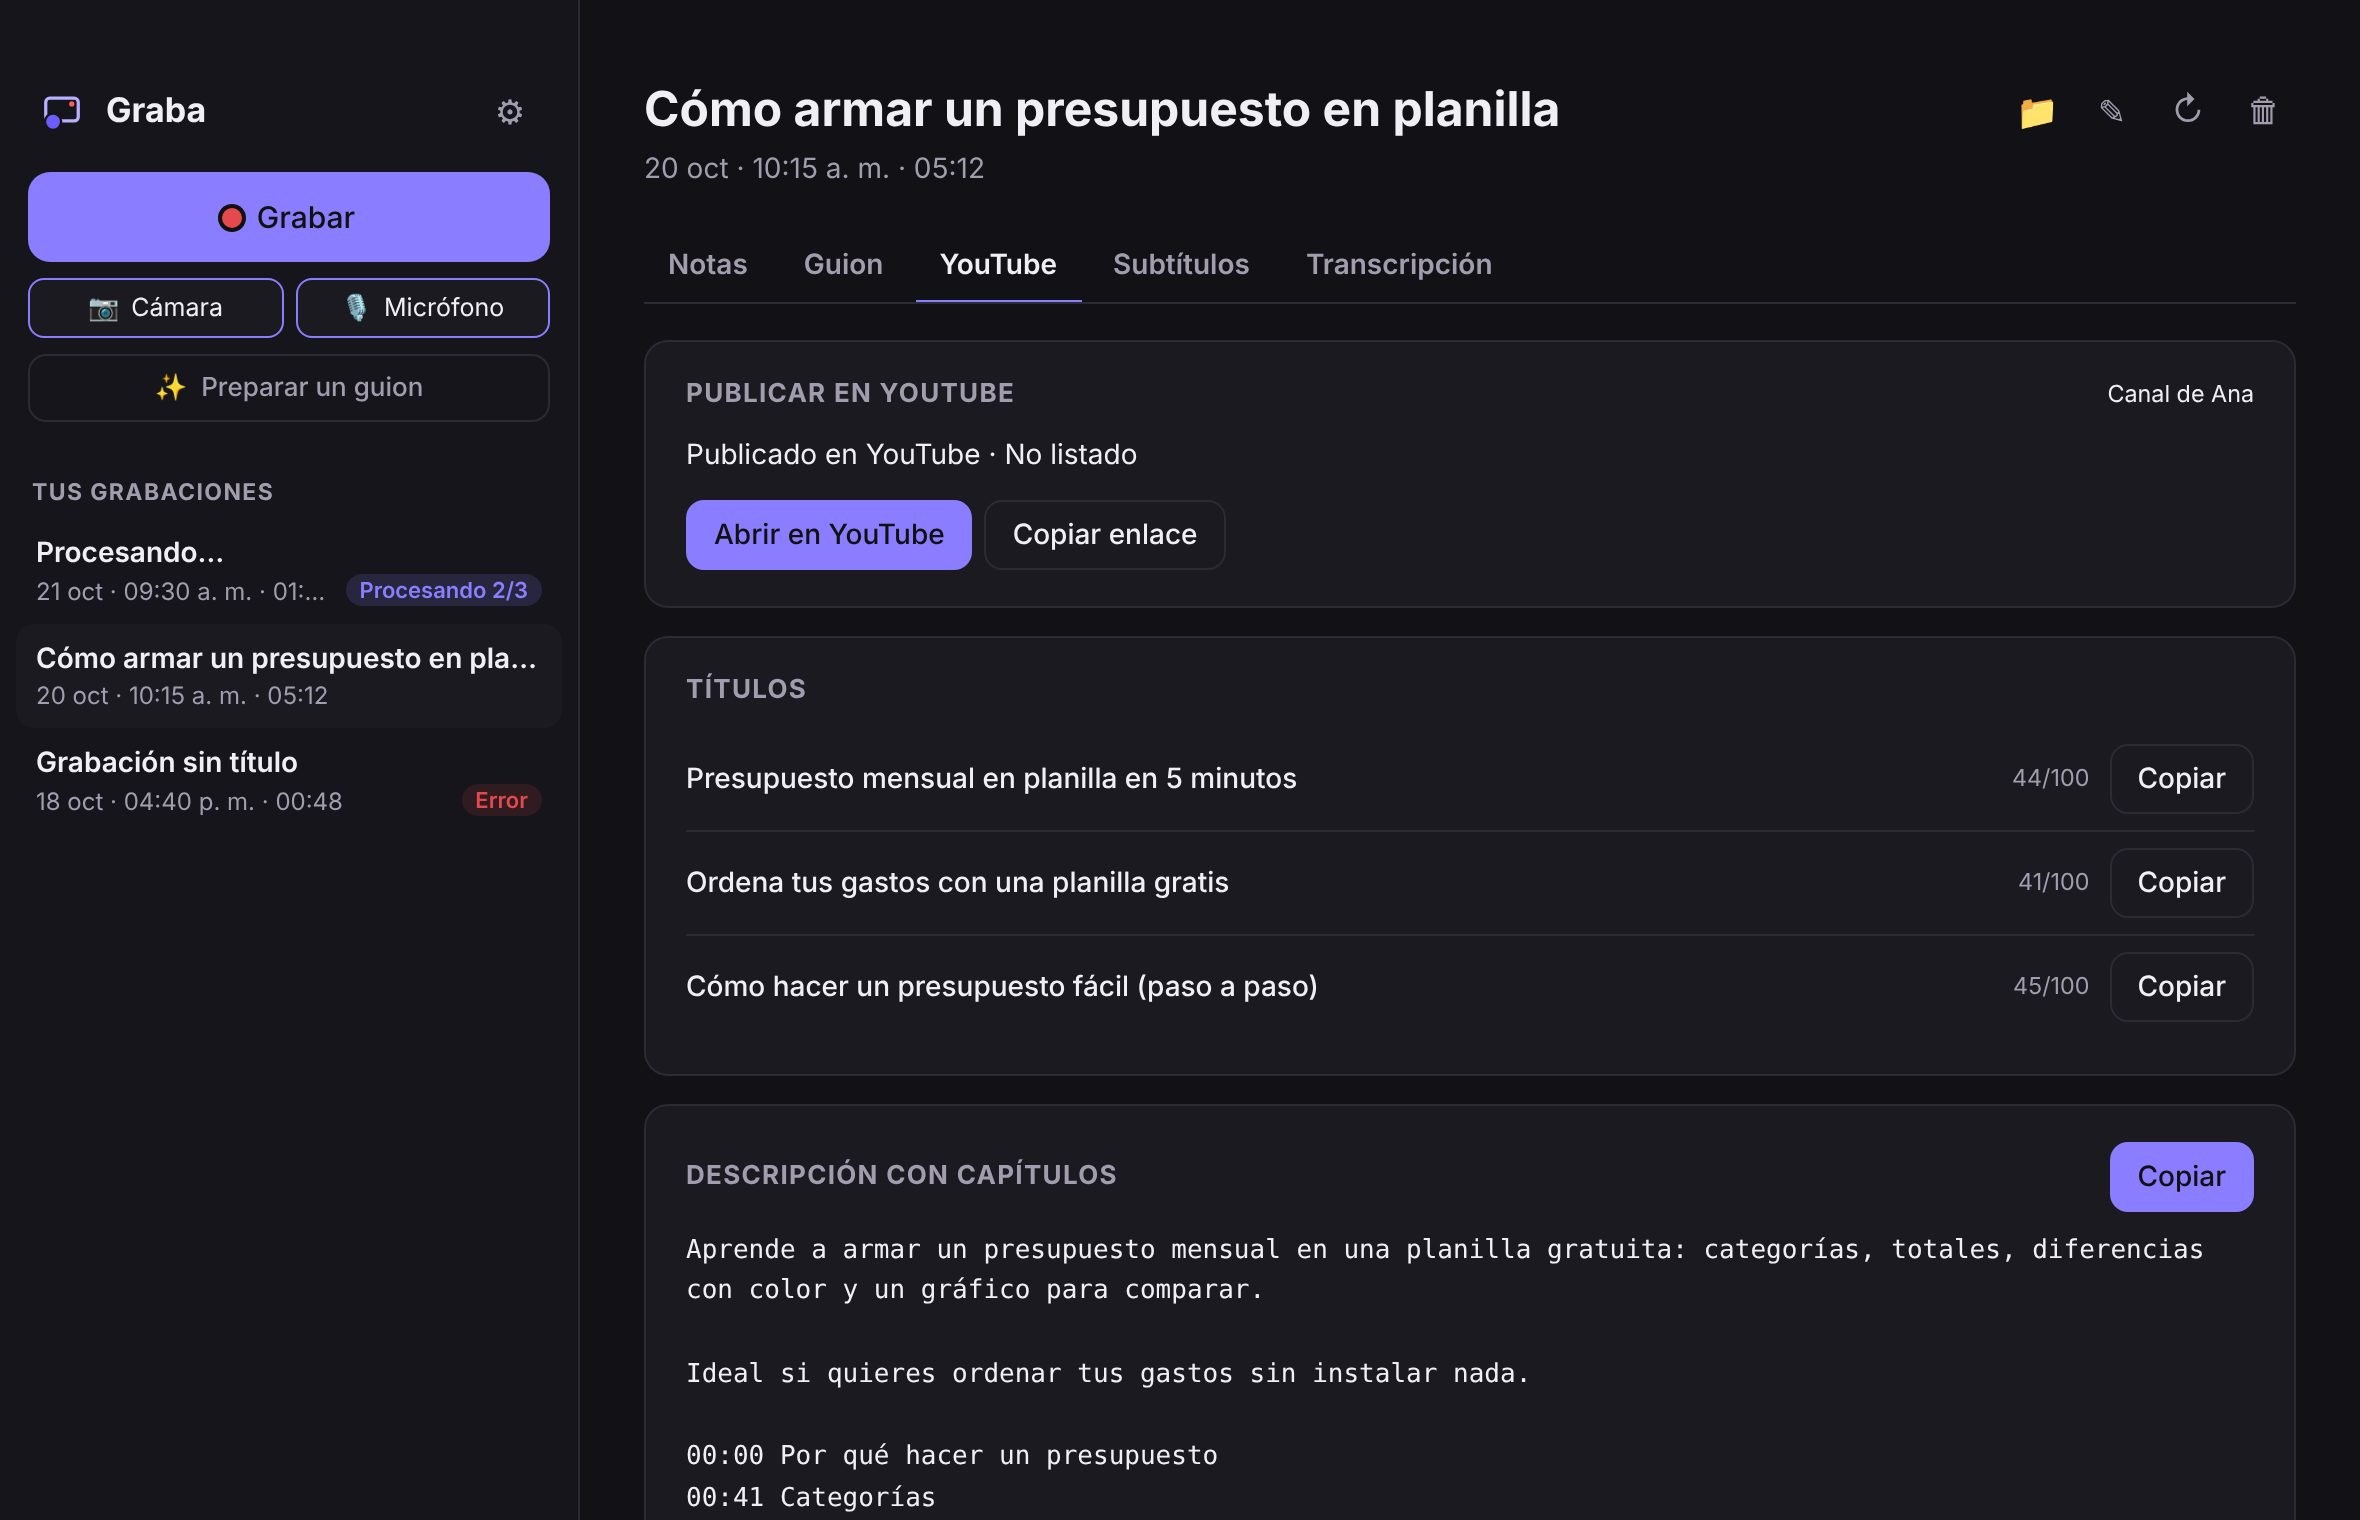
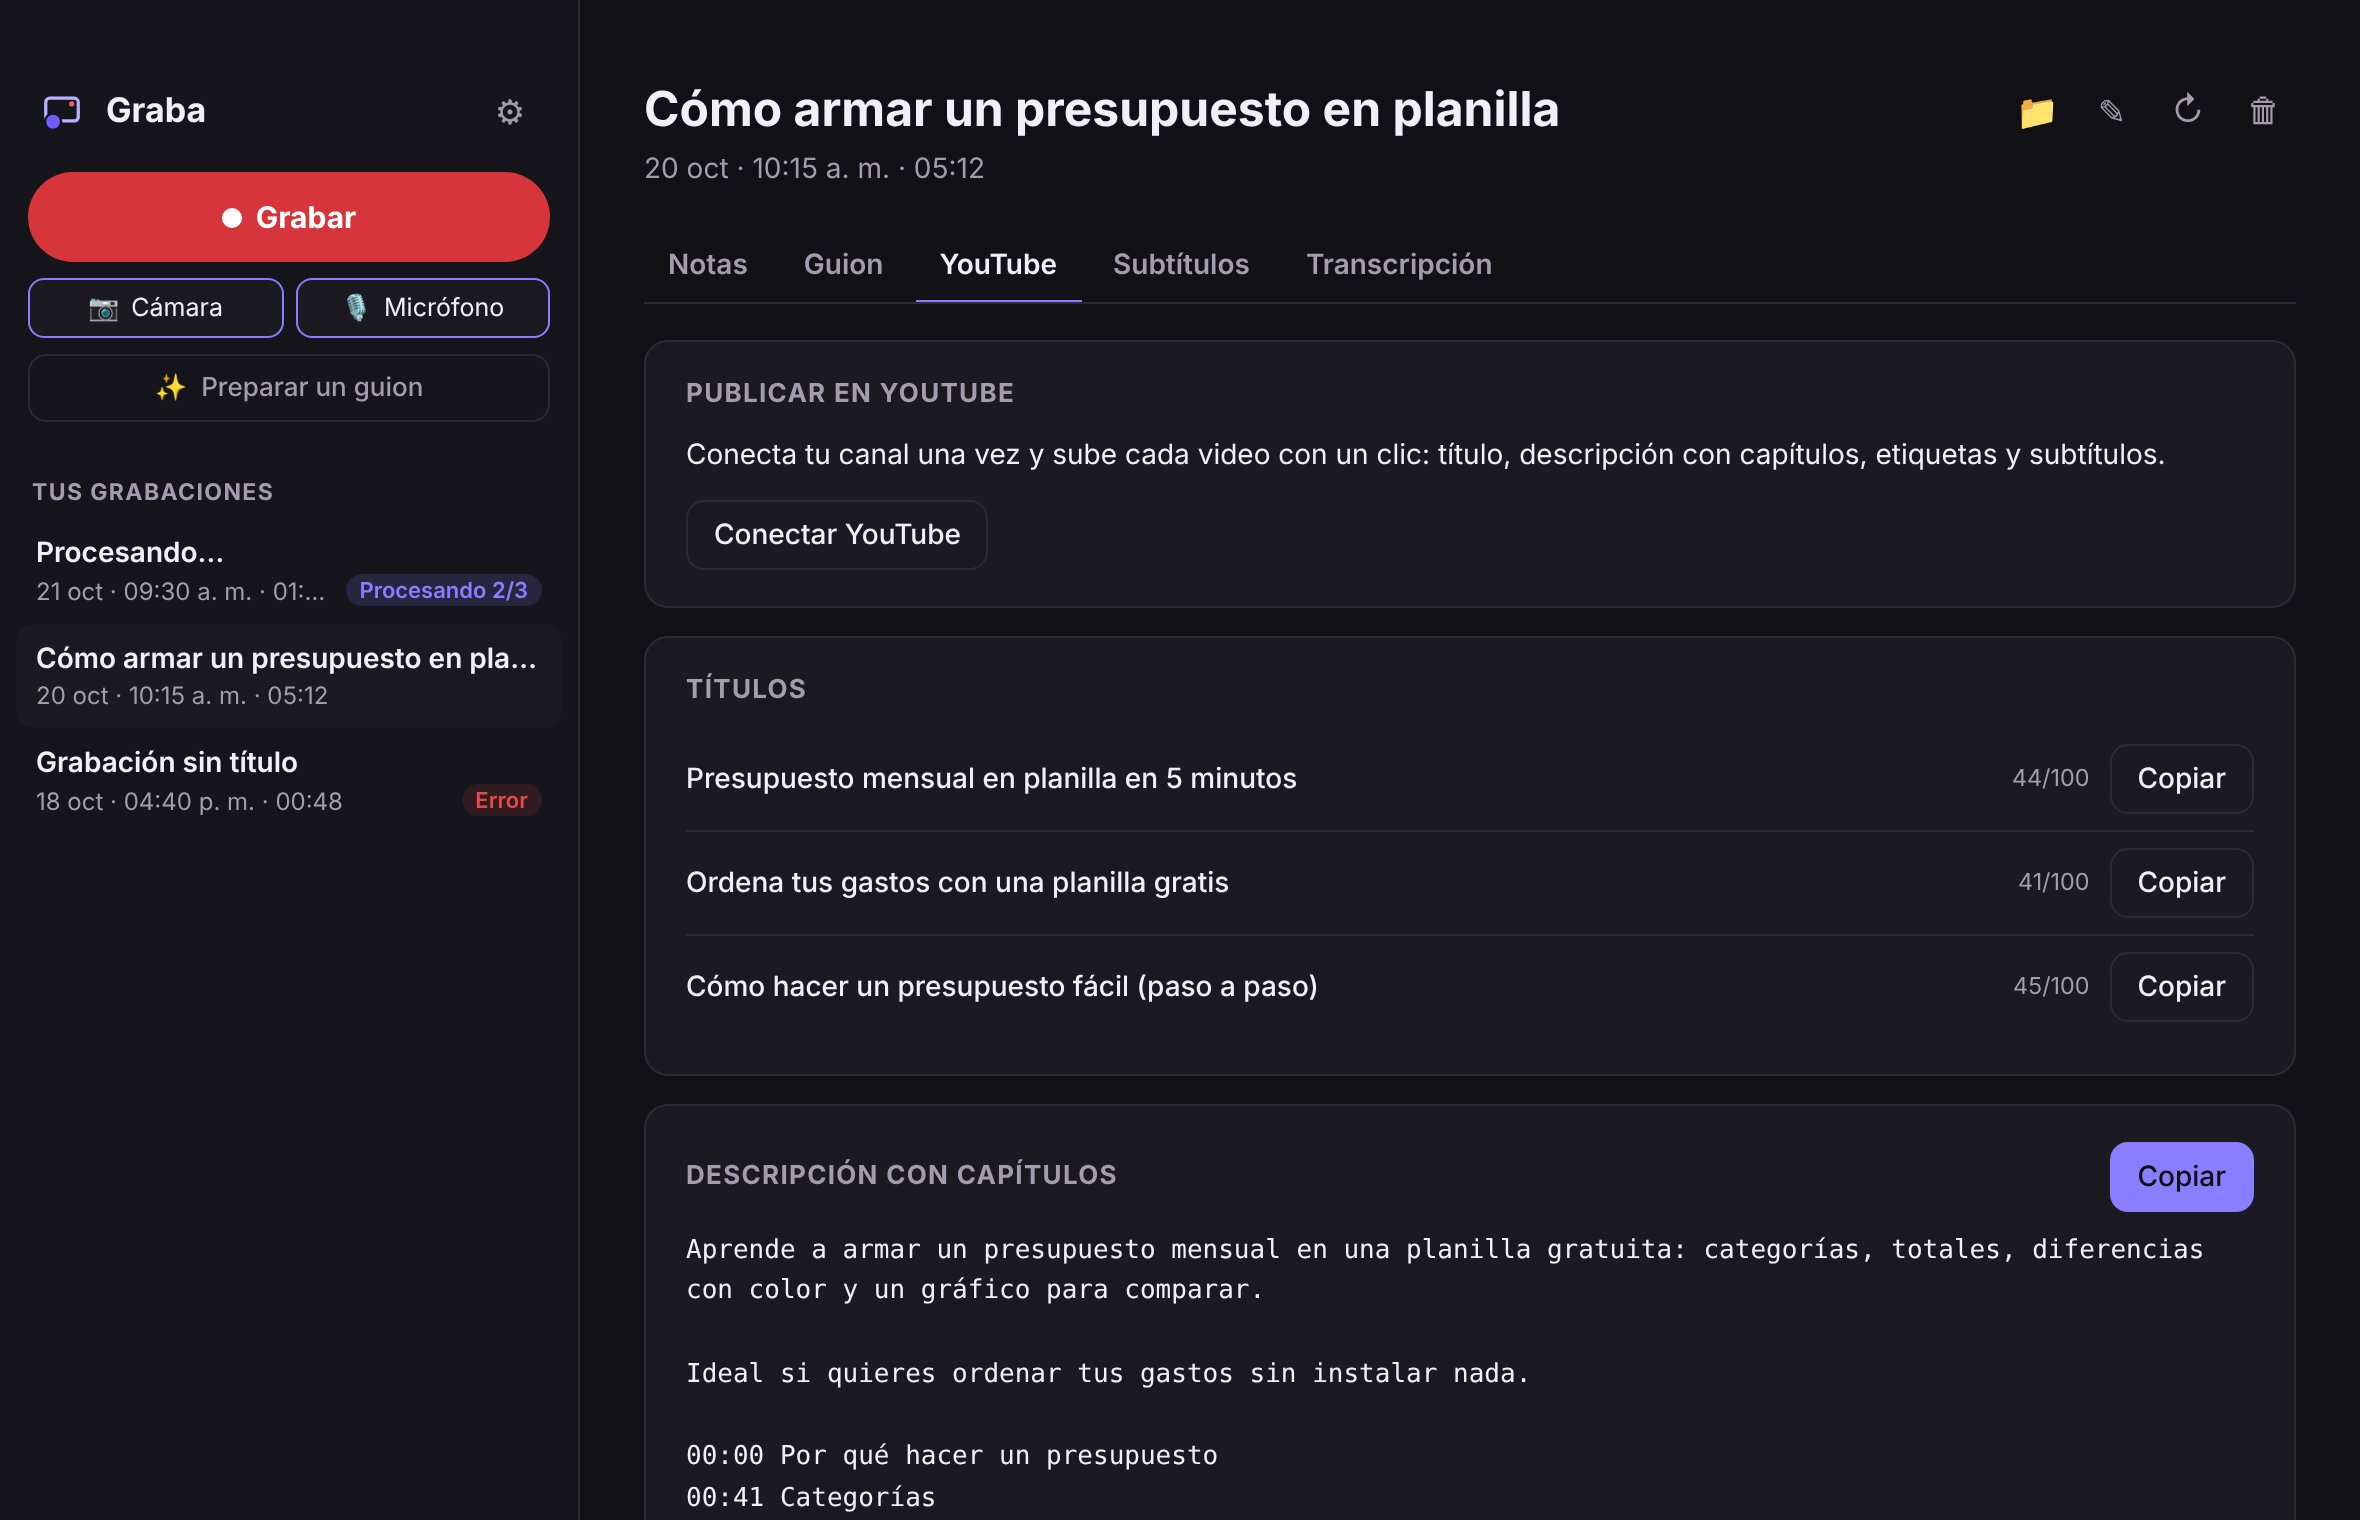
Presentación: capturas de hoy, imagen para compartir y lo nuevo en el README y la página
Las capturas (claro y oscuro) y la imagen para compartir salen de la vista previa con datos ficticios: el botón Grabar rojo y «Mis grabaciones» como se ven ahora. El README parte con «Descargar» · «Página» y la captura, y el inglés dice lo nuevo y cómo instalar. La página suma pausar sin huecos, atajos globales, sonido del Mac, solo la cámara y recortar en «Grábalo a tu manera», y completa Open Graph y Twitter.

Claude-Session: https://claude.ai/code/session_015WKzn5ezHz85iJiog5YX6w

Changed region(s): [[0.2784, 0.2783, 0.897, 0.402], [0.0, 0.0928, 0.2475, 0.1855], [0.897, 0.2474, 0.9589, 0.2783]]

diff --git a/docs/index.html b/docs/index.html
@@ -17,7 +17,11 @@
 <meta property="og:description" content="Pantalla + cámara + voz. Teleprompter invisible, transcripción en tu computador y tu IA escribe notas, guion, títulos, capítulos y subtítulos. Gratis y open source.">
 <meta property="og:image" content="https://graba-app.github.io/graba/img/compartir.png">
 <meta property="og:image:width" content="1200"><meta property="og:image:height" content="630">
+<meta property="og:image:alt" content="Graba: graba tu pantalla y tu IA te deja el guion, títulos, capítulos y subtítulos">
 <meta name="twitter:card" content="summary_large_image">
+<meta name="twitter:title" content="Graba — graba tu pantalla y tu IA te deja el guion">
+<meta name="twitter:description" content="Pantalla, cámara y voz. Transcribe en tu computador y tu propia IA escribe notas, guion, títulos, capítulos y subtítulos. Gratis y open source.">
+<meta name="twitter:image" content="https://graba-app.github.io/graba/img/compartir.png">
 <script type="application/ld+json">
 {
  "@context": "https://schema.org",
@@ -609,7 +613,7 @@
       <div class="lienzo" aria-hidden="true"><div class="ventanitas"><i style="left:8%;top:12%;width:40%;height:44%"></i><i style="left:54%;top:22%;width:38%;height:50%"></i><i style="left:20%;top:62%;width:30%;height:26%"></i></div>
         <span class="modo m1"></span><span class="modo m2"></span><span class="modo m3"></span>
         <div class="etq-modo"><span><span data-es>Toda la pantalla</span><span data-en>Whole screen</span></span><span><span data-es>Una ventana</span><span data-en>One window</span></span><span><span data-es>Un área</span><span data-en>An area</span></span></div></div>
-      <h3><span data-es>Qué grabar</span><span data-en>What to record</span></h3><p><span data-es>Toda la pantalla, solo una app o el área que marques con el mouse.</span><span data-en>The whole screen, just one app, or the area you draw with the mouse.</span></p>
+      <h3><span data-es>Qué grabar</span><span data-en>What to record</span></h3><p><span data-es>Toda la pantalla, solo una app, el área que marques con el mouse o solo la cámara.</span><span data-en>The whole screen, just one app, the area you draw with the mouse, or just the camera.</span></p>
     </div>
     <div class="tarjeta">
       <div class="lienzo" aria-hidden="true"><div class="forma"><svg viewBox="0 0 100 100" preserveAspectRatio="xMidYMid slice"><circle cx="50" cy="112" r="44" fill="#2a2440"/><circle cx="50" cy="46" r="21" fill="#f2c4a2"/><path d="M28 44c0-17 10-25 23-25s22 9 22 23c-5-7-12-10-22-10-10 0-17 4-23 12z" fill="#3b2a22"/><g class="ojos"><circle cx="42" cy="47" r="2.4" fill="#2a2030"/><circle cx="58" cy="47" r="2.4" fill="#2a2030"/></g><ellipse class="boca" cx="50" cy="57" rx="5" ry="3.2" fill="#a2384f"/></svg></div>
@@ -619,9 +623,14 @@
     <div class="tarjeta">
       <div class="lienzo" aria-hidden="true"><div class="menu-disp"><div>🎙 <span data-es>Micrófono del computador</span><span data-en>Built-in microphone</span></div><div>🎧 <span data-es>Audífonos Bluetooth</span><span data-en>Bluetooth headphones</span></div><div>🎚 <span data-es>Micrófono USB</span><span data-en>USB microphone</span></div></div>
         <div class="nivel"><i></i><i></i><i></i><i></i><i></i><i></i><i></i><i></i><i></i><i></i><i></i><i></i><i></i><i></i><i></i><i></i></div></div>
-      <h3><span data-es>Tu micrófono y tu cámara</span><span data-en>Your mic and camera</span></h3><p><span data-es>Eliges cuál usar desde su propio menú, sin entrar a ajustes.</span><span data-en>Pick which one to use from its own menu, no settings needed.</span></p>
+      <h3><span data-es>Tu micrófono y tu cámara</span><span data-en>Your mic and camera</span></h3><p><span data-es>Eliges cuál usar desde su propio menú, sin entrar a ajustes. Si quieres, también el sonido del Mac (o del computador en Windows).</span><span data-en>Pick which one to use from its own menu, no settings needed. If you want, the Mac's sound too (or the computer's on Windows).</span></p>
     </div>
   </div>
+  <ul class="lista-ok">
+    <li><b><span data-es>Pausa sin huecos</span><span data-en>Pause without gaps</span></b><span data-es>Pausas, respiras y sigues: el video queda de corrido.</span><span data-en>Pause, breathe and go on: the video stays seamless.</span></li>
+    <li><b><span data-es>Atajos en cualquier app</span><span data-en>Shortcuts from any app</span></b><span data-es>⌃⌥⌘R empieza o termina y ⌃⌥⌘P pausa (Ctrl+Alt+Shift+R / P en Windows y Linux).</span><span data-en>⌃⌥⌘R starts or stops and ⌃⌥⌘P pauses (Ctrl+Alt+Shift+R / P on Windows and Linux).</span></li>
+    <li><b><span data-es>Recorta el inicio y el final</span><span data-en>Trim the start and end</span></b><span data-es>Sin el «eh… ya, ¿se escucha?». La transcripción, los subtítulos y los capítulos se corren solos y el original queda guardado.</span><span data-en>No more “uh… ok, can you hear me?”. Transcript, subtitles and chapters shift on their own and the original is kept.</span></li>
+  </ul>
 </div></section>
 
 <section id="guion"><div class="ancho">

diff --git a/README.md b/README.md
@@ -5,7 +5,9 @@
 <p align="center"><b>Graba tu pantalla con tu cámara. Tu IA te deja notas, un guion para YouTube, títulos, descripción con capítulos y subtítulos.</b><br>
 Gratis, open source y sin fines de lucro. Mac, Windows y Linux. Todo pasa en tu computador.</p>
 
-<p align="center"><a href="https://graba-app.github.io/graba/">Sitio</a> · <a href="#instalar">Instalar</a> · <a href="https://github.com/graba-app/graba/discussions">Comunidad</a> · <a href="CONTRIBUTING.md">Cómo aportar</a></p>
+<p align="center"><a href="https://github.com/graba-app/graba/releases/latest"><b>Descargar</b></a> · <a href="https://graba-app.github.io/graba/"><b>Página</b></a> · <a href="#instalar">Instalar</a> · <a href="https://github.com/graba-app/graba/discussions">Comunidad</a> · <a href="CONTRIBUTING.md">Cómo aportar</a> · <a href="#licencia--license">English</a></p>
+
+<p align="center"><picture><source srcset="docs/img/app-oscuro.jpg" media="(prefers-color-scheme: dark)"><img src="docs/img/app-claro.jpg" width="860" alt="Graba con una grabación abierta: títulos, descripción con capítulos y etiquetas listas para YouTube (datos ficticios)"></picture></p>
 
 ---
 
@@ -138,4 +140,9 @@ está en [ffmpeg.org](https://ffmpeg.org/download.html)). Cada descarga se verif
 
 [MIT](LICENSE). **English:** Graba is a free, open-source, non-profit Loom-like screen recorder for Mac, Windows and Linux. Your own AI CLI prepares
 the script for a teleprompter that isn't recorded, and afterwards writes notes, titles, a description with chapters and subtitles.
-Transcription is local; everything stays on your computer.
+Transcription is local; everything stays on your computer. Record the whole screen, a window, an area or just the camera, with your
+camera in any shape, your mic and, if you want, the Mac's sound; pause and resume without gaps, use global shortcuts (⌃⌥⌘R / ⌃⌥⌘P,
+Ctrl+Alt+Shift+R / P on Windows and Linux) and trim the start and end (transcript, subtitles and chapters shift on their own).
+**Install:** Mac and Linux `curl -fsSL https://raw.githubusercontent.com/graba-app/graba/main/instalar.sh | bash` · Windows (PowerShell)
+`irm https://raw.githubusercontent.com/graba-app/graba/main/instalar.ps1 | iex` · or the [latest release](https://github.com/graba-app/graba/releases/latest).
+Questions and ideas are welcome in [Discussions](https://github.com/graba-app/graba/discussions), in English or Spanish.
